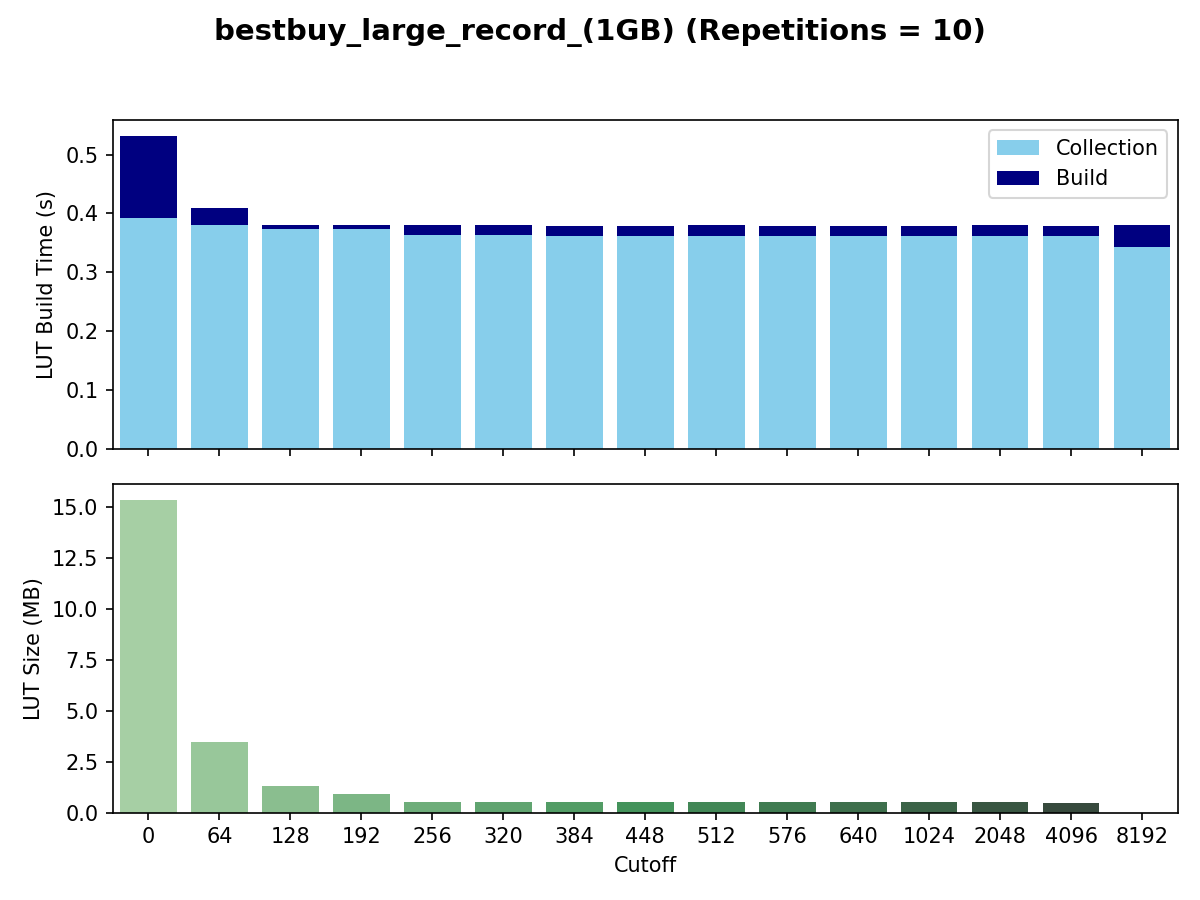
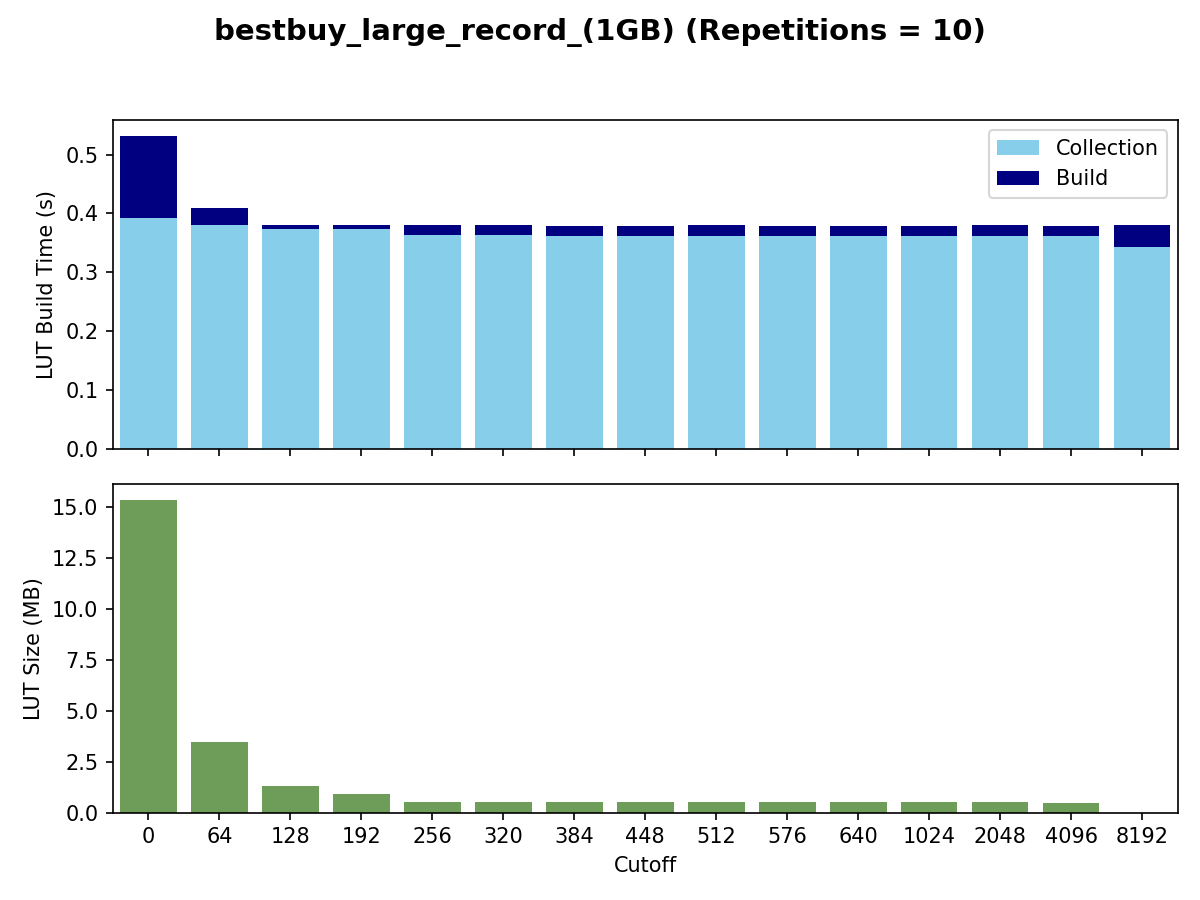
Updated green tone in plot_lut_build_speed_and_size.png

Changed region(s): [[0.0925, 0.5289, 0.4008, 0.9022], [0.4625, 0.8711, 0.925, 0.9022]]

diff --git a/src/speed/plot_lut_build_speed_and_size.py b/src/speed/plot_lut_build_speed_and_size.py
@@ -58,7 +58,7 @@ def plot(build_csv: str, output_dir: str = "plots"):
             y="SIZE_MB",
             hue="CUTOFF",
             ax=axes[1],
-            palette="Greens_d",
+            palette=["#6AA84F"] * df["CUTOFF"].nunique(),
             legend=False
         )
         axes[1].set_ylabel("LUT Size (MB)")
